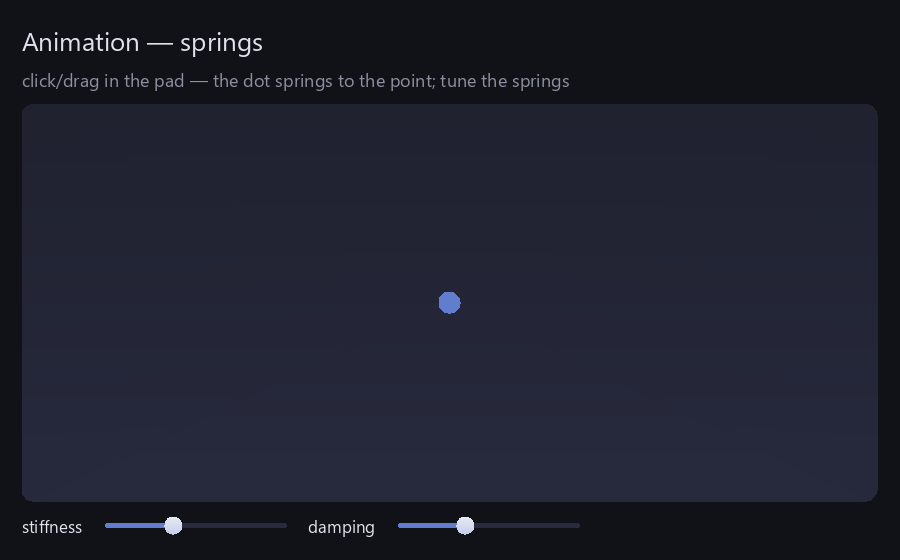
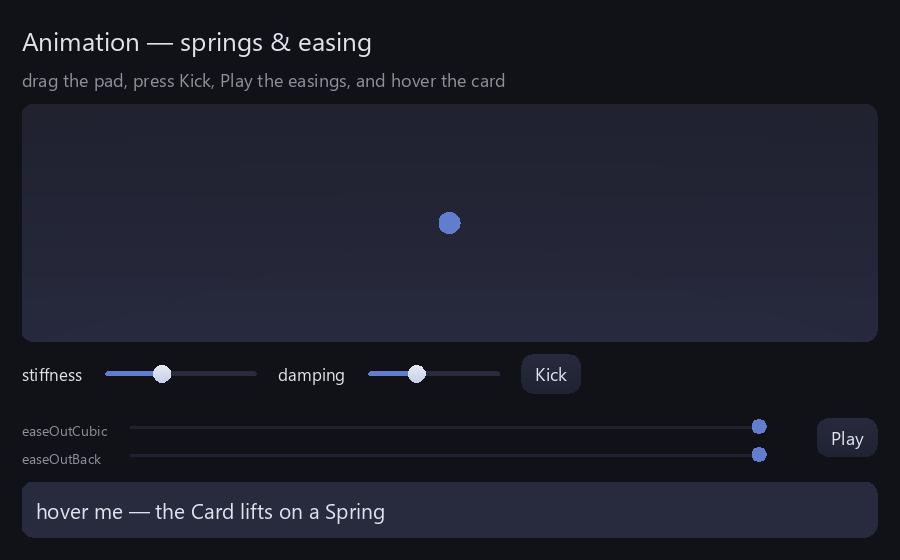
feat(wasm, #32): extend the animation scene + fix bounds/measure (review)
Address PR review:
- Clamp the SpringPad drag target to the pad bounds (drag capture continues off
  the widget), so the dot/target can't render over neighboring UI.
- SpringPad::measure honors prefW/prefH (like other leaf widgets) before falling
  back to fill-width + a modest height.
- Extend the scene to #32's full scope: a "Kick" button (Spring::kick velocity
  pulse), an easeOutCubic-vs-easeOutBack track with a "Play" button, and a
  hover-lift Card — not just the draggable spring. (EasingRow uses a modest
  preferred width so grow leaves room for Play.)

Verified: emcc + g++ -fsyntax-only + mkdocs --strict pass; headless render shows
all elements laid out correctly.

diff --git a/examples/web/scenes.h b/examples/web/scenes.h
@@ -161,19 +161,19 @@ inline std::unique_ptr<Widget> buildLayout() {
     return root;
 }
 
-// ── animation: a draggable Spring visualizer (#32) ──
-// Click/drag in the pad to set a target; a dot springs toward it each frame. The
-// sliders tune stiffness/damping so the reader feels the spring model directly.
+// ── animation: springs (drag + kick) and easings (#32) ──
+// A draggable 2D Spring, a kick() velocity pulse, an easeOutCubic-vs-easeOutBack
+// track, and a hover-lift Card — the pieces of anim.h, made tangible.
 class SpringPad : public Widget {
 public:
-    Spring sx, sy;                  // 2D position springs (value chases target)
+    Spring sx, sy;             // 2D position springs (value chases target)
     float stiffness = 200.0f;
     float damping = 16.0f;
 
     Size measure(Renderer&, float availW, float) override {
-        // A modest preferred height; grow=1 expands it, so don't claim all availH
-        // (that would starve non-grow siblings like the sliders below).
-        return Size{availW > 0 ? availW : 480.0f, 200.0f};
+        // Honor explicit prefs (like other leaf widgets); else fill width with a
+        // modest height that grow=1 expands (so siblings aren't starved).
+        return Size{prefW >= 0 ? prefW : (availW > 0 ? availW : 480.0f), prefH >= 0 ? prefH : 200.0f};
     }
     void arrange(Renderer& r, Rect rc) override {
         Widget::arrange(r, rc);
@@ -190,13 +190,13 @@ public:
         sy.step(dt);
     }
     bool onMouseDown(float x, float y, int, bool, bool) override {
-        sx.target = x - rect.x;
-        sy.target = y - rect.y;
+        setTarget(x, y);
         return true;
     }
-    void onMouseDrag(float x, float y) override {
-        sx.target = x - rect.x;
-        sy.target = y - rect.y;
+    void onMouseDrag(float x, float y) override { setTarget(x, y); } // capture continues off-widget
+    void kick() {
+        sx.kick(-360.0f); // a velocity pulse — the dot lurches, then springs back
+        sy.kick(-240.0f);
     }
     void paint(Renderer& r, const Theme& th) override {
         float rad = th.metric(tokens::Radius, 8.0f);
@@ -209,7 +209,45 @@ public:
     }
 
 private:
+    static float clamp(float v, float hi) { return v < 0 ? 0 : (v > hi ? hi : v); }
+    void setTarget(float x, float y) { // clamp inside the pad (drag capture runs off-widget)
+        sx.target = clamp(x - rect.x, rect.w);
+        sy.target = clamp(y - rect.y, rect.h);
+    }
     bool inited_ = false;
+};
+
+// One-shot easing tracks: press Play and a dot tweens across using easeOutCubic
+// (top) and easeOutBack (bottom, overshoots).
+class EasingRow : public Widget {
+public:
+    Size measure(Renderer&, float, float) override {
+        // Modest preferred width so grow=1 (not the preferred size) fills the row,
+        // leaving room for the Play button beside it.
+        return Size{prefW >= 0 ? prefW : 260.0f, 64.0f};
+    }
+    void update(float dt) override {
+        if (t_ < 1.0f) t_ = std::min(1.0f, t_ + dt * 1.4f);
+    }
+    void play() { t_ = 0.0f; }
+    void paint(Renderer& r, const Theme& th) override {
+        Color track = th.color(tokens::SurfaceAlt, {32, 34, 48});
+        Color acc = th.color(tokens::Accent, {96, 126, 205});
+        Color txt = th.color(tokens::TextDim, {140, 144, 160});
+        float gutter = 108.0f;
+        float x0 = rect.x + gutter, w = rect.w - gutter - 46.0f; // headroom for easeOutBack overshoot
+        const char* labels[2] = {"easeOutCubic", "easeOutBack"};
+        for (int i = 0; i < 2; ++i) {
+            float ry = rect.y + 14.0f + i * 28.0f;
+            r.fillRect(x0, ry + 6.0f, w, 3.0f, track);
+            float e = i == 0 ? easeOutCubic(t_) : easeOutBack(t_);
+            r.fillRoundedRect(x0 + e * w, ry + 7.0f, 15, 15, 7.5f, acc, acc);
+            r.text(rect.x, ry, 1.1f, txt, labels[i]);
+        }
+    }
+
+private:
+    float t_ = 1.0f;
 };
 
 inline std::unique_ptr<Widget> buildAnimation() {
@@ -217,25 +255,37 @@ inline std::unique_ptr<Widget> buildAnimation() {
     root->axis = Axis::Column;
     root->padding = Edges(22);
     root->spacing = 12;
-    root->emplace<Label>("Animation — springs", 2.0f);
-    auto* hint = root->emplace<Label>("click/drag in the pad — the dot springs to the point; tune the springs", 1.4f);
+    root->emplace<Label>("Animation — springs & easing", 2.0f);
+    auto* hint = root->emplace<Label>("drag the pad, press Kick, Play the easings, and hover the card", 1.4f);
     hint->role = "textDim";
 
     auto* pad = root->emplace<SpringPad>();
     pad->grow = 1.0f;
 
-    auto* sliders = root->emplace<Box>();
-    sliders->axis = Axis::Row;
-    sliders->spacing = 12;
-    sliders->cross = Align::Center;
-    sliders->emplace<Label>("stiffness", 1.3f);
-    auto* stf = sliders->emplace<Slider>(20.0f, 500.0f, pad->stiffness);
-    stf->prefW = 200;
+    auto* springRow = root->emplace<Box>();
+    springRow->axis = Axis::Row;
+    springRow->spacing = 12;
+    springRow->cross = Align::Center;
+    springRow->emplace<Label>("stiffness", 1.3f);
+    auto* stf = springRow->emplace<Slider>(20.0f, 500.0f, pad->stiffness);
+    stf->prefW = 170;
     stf->onChange = [pad](float v) { pad->stiffness = v; };
-    sliders->emplace<Label>("damping", 1.3f);
-    auto* dmp = sliders->emplace<Slider>(2.0f, 40.0f, pad->damping);
-    dmp->prefW = 200;
+    springRow->emplace<Label>("damping", 1.3f);
+    auto* dmp = springRow->emplace<Slider>(2.0f, 40.0f, pad->damping);
+    dmp->prefW = 150;
     dmp->onChange = [pad](float v) { pad->damping = v; };
+    springRow->emplace<Button>("Kick", [pad] { pad->kick(); });
+
+    auto* easeRow = root->emplace<Box>();
+    easeRow->axis = Axis::Row;
+    easeRow->spacing = 12;
+    easeRow->cross = Align::Center;
+    auto* ease = easeRow->emplace<EasingRow>();
+    ease->grow = 1.0f;
+    easeRow->emplace<Button>("Play", [ease] { ease->play(); });
+
+    auto* card = root->emplace<Card>("hover me — the Card lifts on a Spring");
+    card->prefH = 56;
 
     return root;
 }